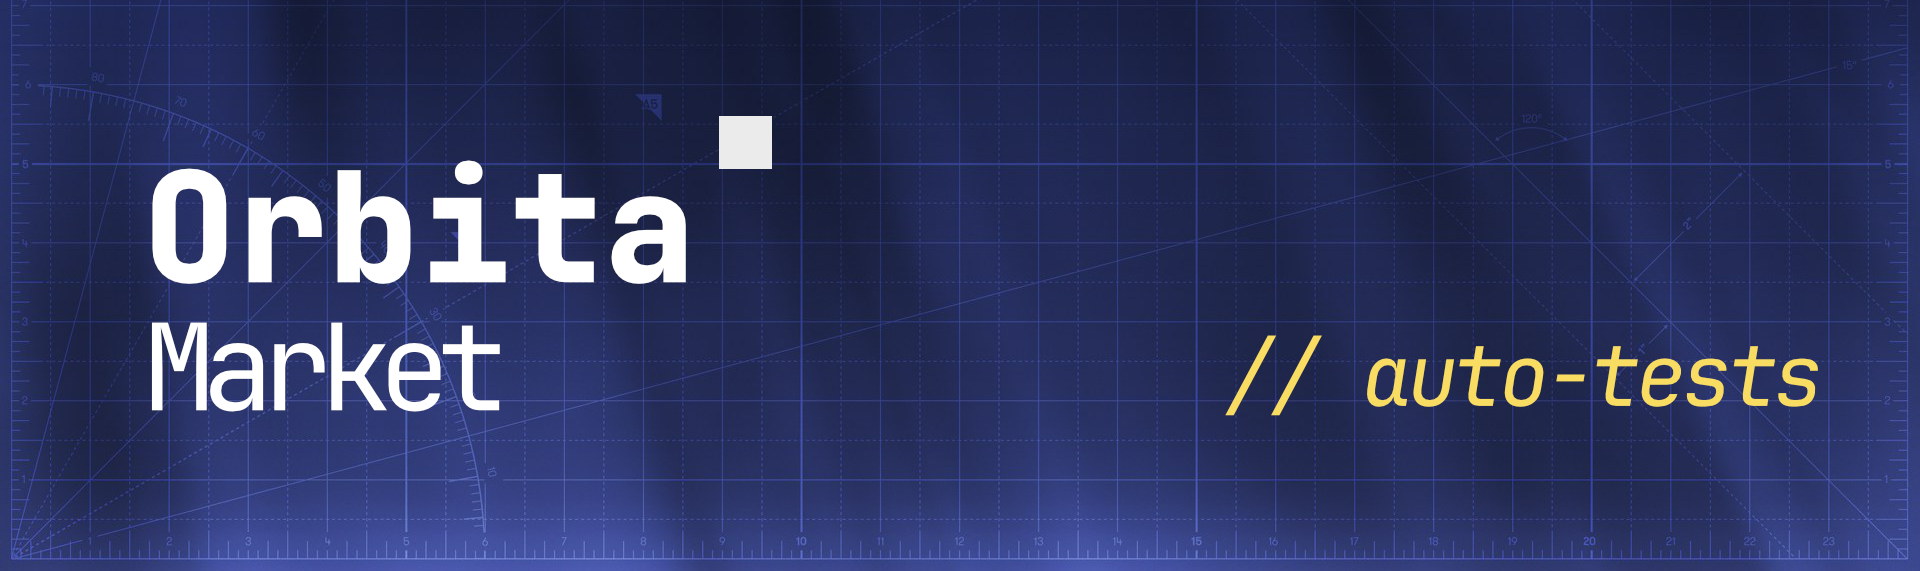
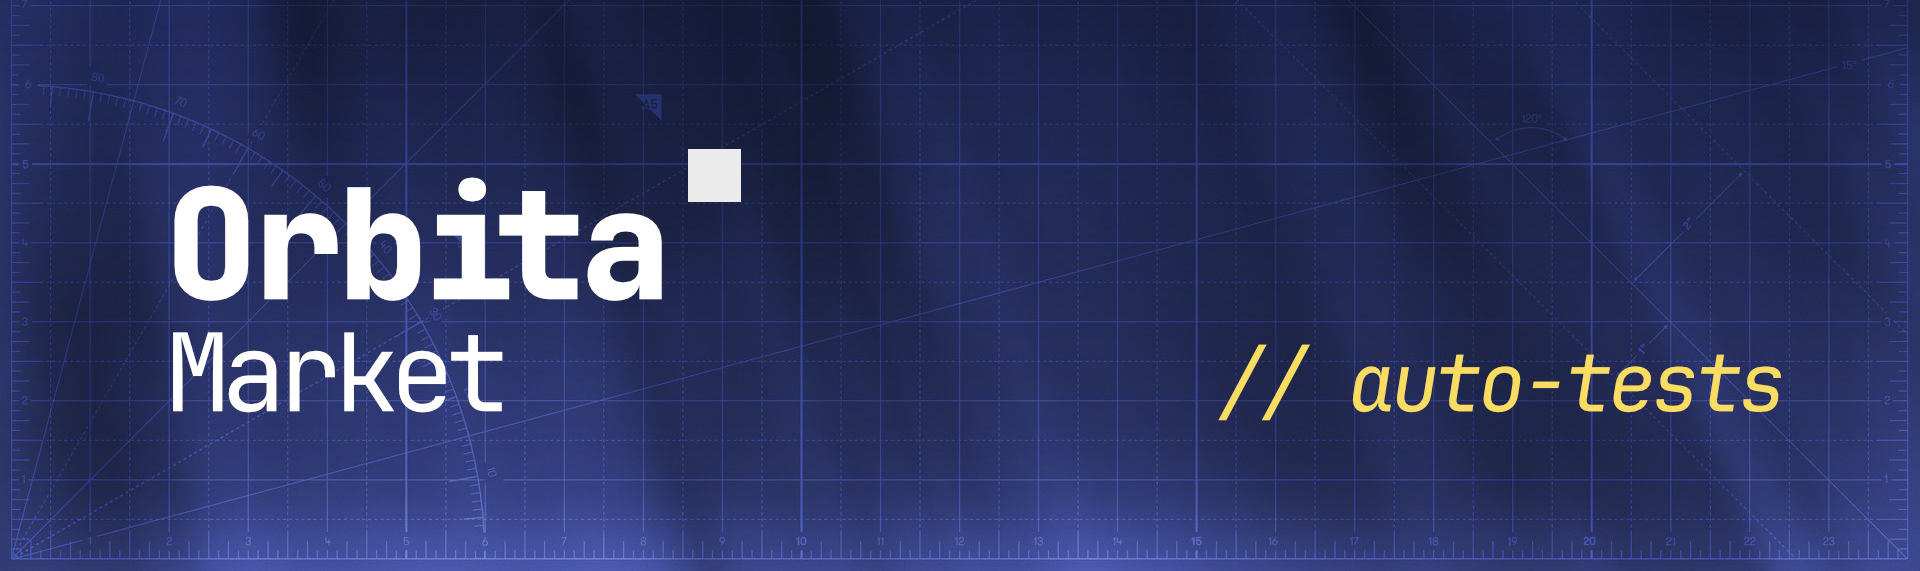
Updates README.md

Changed region(s): [[0.0625, 0.1786, 0.4062, 0.5359], [0.625, 0.5954, 0.9688, 0.7443], [0.0625, 0.5657, 0.2812, 0.7443]]

diff --git a/README.md b/README.md
@@ -1,1 +1,64 @@
 ![Orbita Market auto-tests banner](images/Banner.png)
+
+Автотесты для основных E2E-сценариев платформы Orbita Market.
+
+## Технологии
+
+| Технология                                    | Роль                                     |
+| --------------------------------------------- | ---------------------------------------- |
+| [TypeScript](https://www.typescriptlang.org/) | Язык написания тестов                    |
+| [Jest](https://jestjs.io/)                    | Тест-раннер                              |
+| [Allure](https://allurereport.org/)           | Генерация отчёта о прохождении тестов    |
+| [Axios](https://axios-http.com/)              | HTTP-клиент для обращений к REST API     |
+| [KafkaJS](https://kafka.js.org/)              | Клиент для взаимодействия с Apache Kafka |
+| [@faker-js/faker](https://fakerjs.dev/)       | Генерация тестовых данных                |
+
+## Предварительные требования
+
+- Node.js: 18+
+- Работающий экземпляр приложения Orbita Market
+
+## Переменные окружения
+
+> Можно задать в файле `.env` либо передать непосредственно в команде запуска.
+
+| Переменная        | По умолчанию            | Описание                            |
+| ----------------- | ----------------------- | ----------------------------------- |
+| `ORBITA_BASE_URL` | `http://localhost:8080` | Базовый URL REST API приложения     |
+| `KAFKA_BROKERS`   | `localhost:9092`        | Список брокеров Kafka через запятую |
+
+## Установка зависимостей
+
+```bash
+npm install
+```
+
+## Запуск тестов
+
+```bash
+npm test
+```
+
+После выполнения всех тестов команда автоматически генерирует Allure-отчёт в директории `allure-report/`.
+
+Запуск отдельного тестового файла:
+
+```bash
+npm test -- account-order-balance-flow
+```
+
+Альтернативный вариант — через скрипт-обёртку (устанавливает зависимости и запускает тесты):
+
+```bash
+./run.sh
+```
+
+## Просмотр отчёта
+
+```bash
+npm run report:open
+```
+
+Команда запустит локальный сервер и автоматически откроет `allure-report/index.html` в браузере.
+
+![Allure Report](images/Report.png)